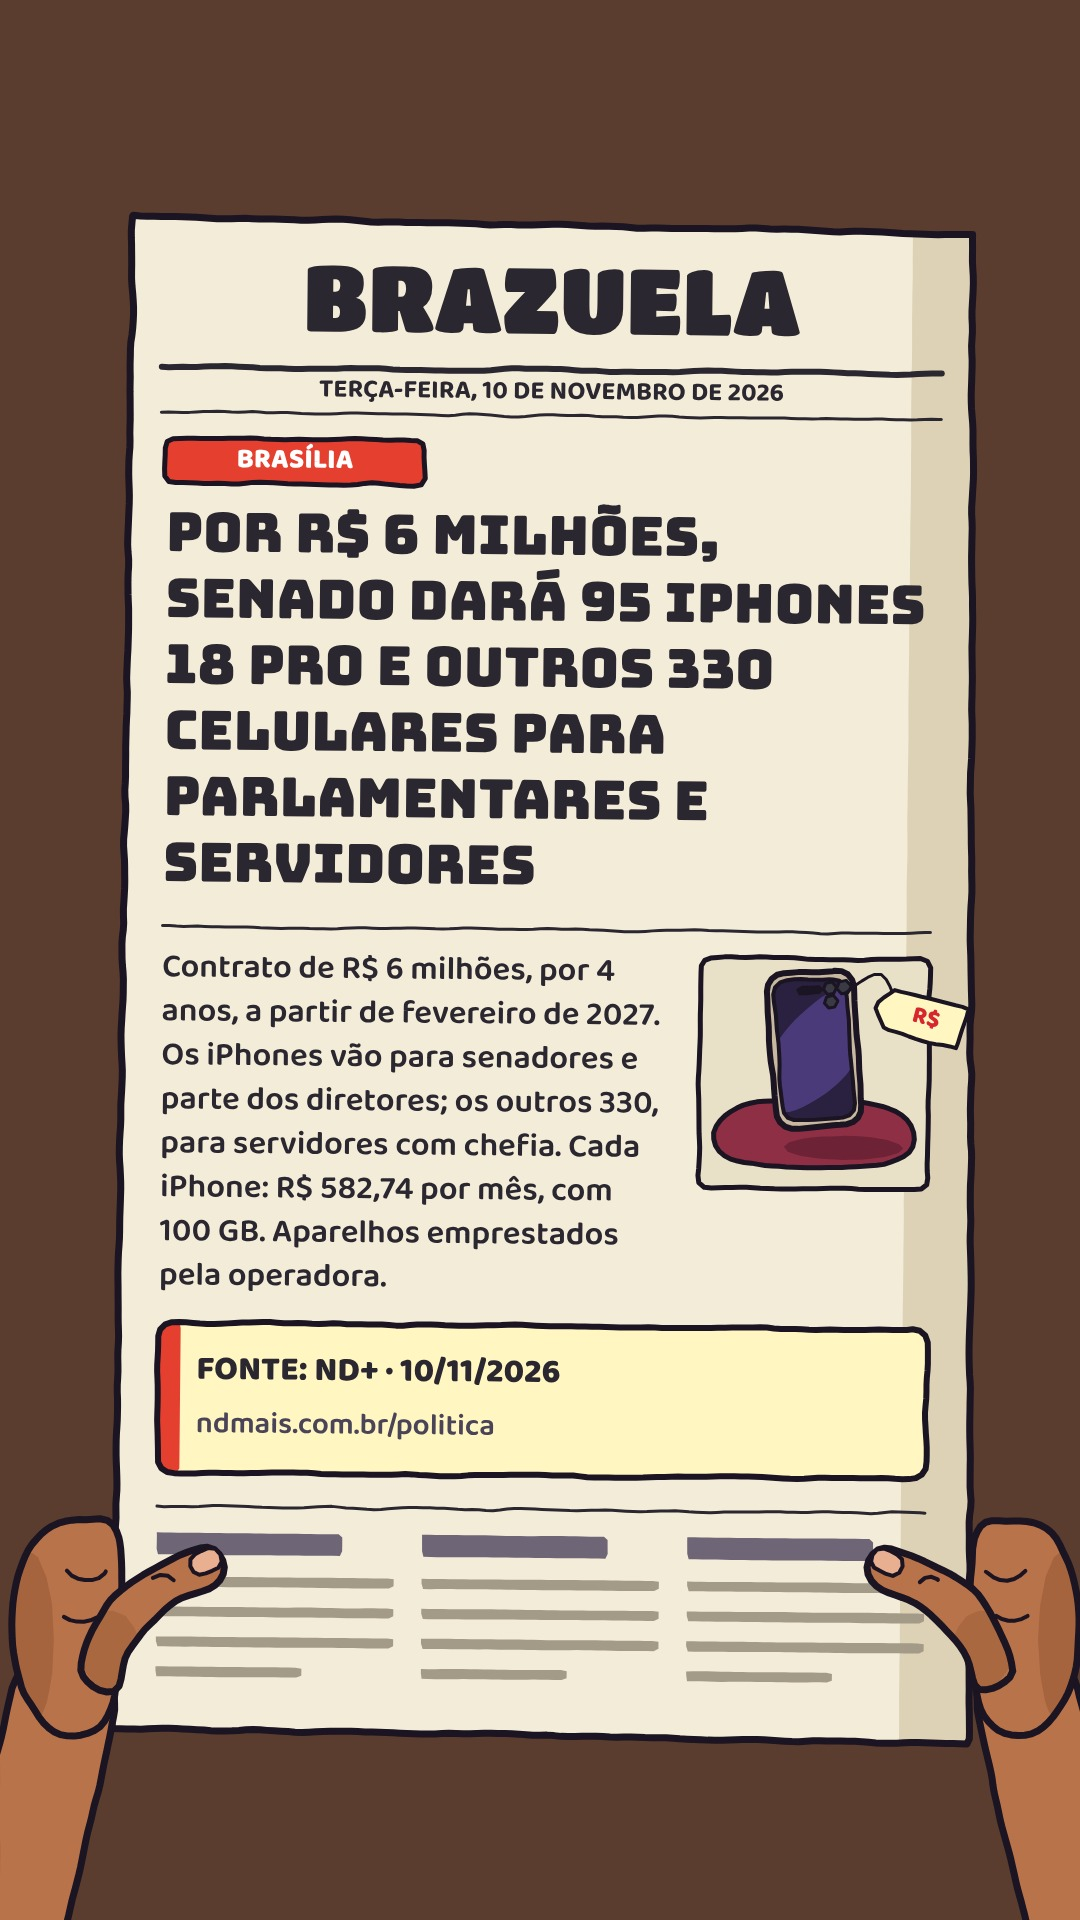
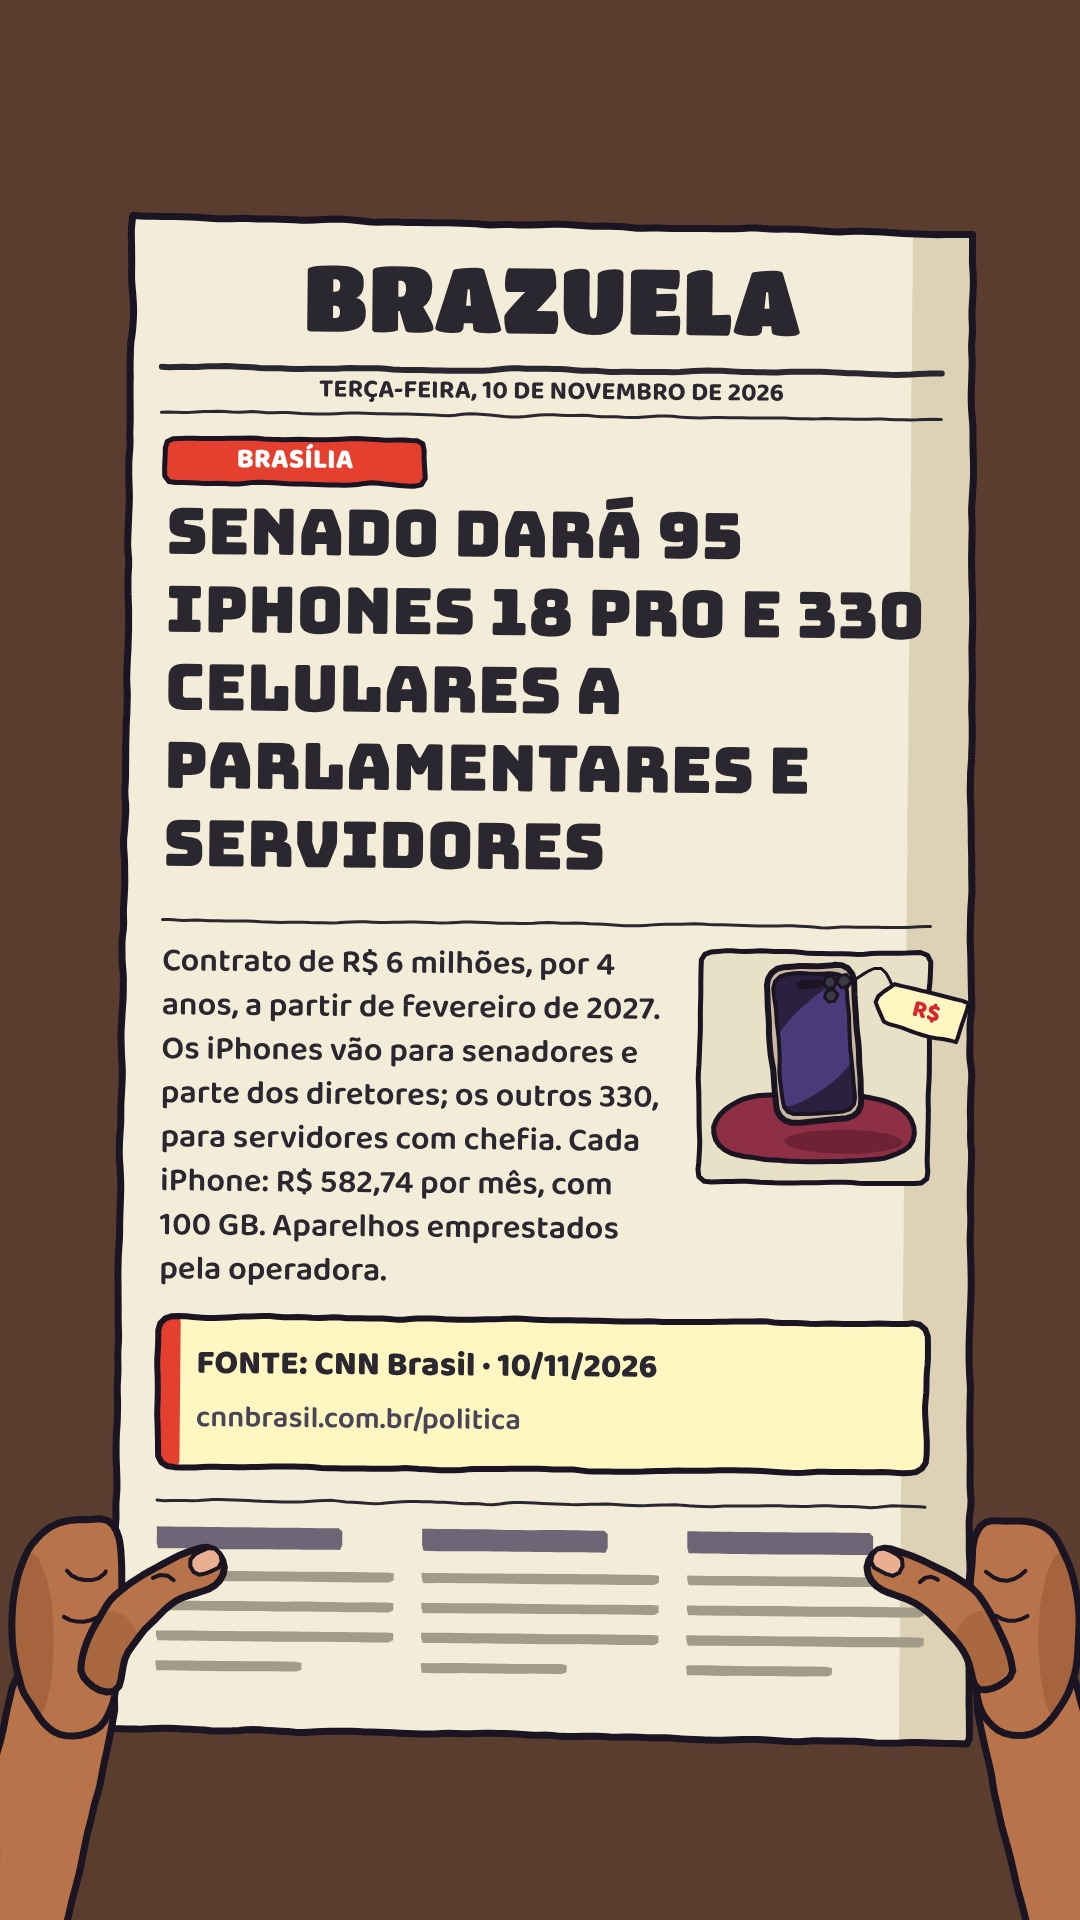
Episode 2: use the CNN Brasil story the author sent (headline, source seal, line 2)
Claude-Session: https://claude.ai/code/session_01Vj4AmPRRavHM7V3cnXnHDv

Changed region(s): [[0.1222, 0.25, 0.8861, 0.875]]

diff --git a/jornal/ep02-iphones/news.js b/jornal/ep02-iphones/news.js
@@ -2,9 +2,8 @@
 import { iphoneAlmofada } from '../cast.js';
 export const NEWS = {
   masthead: 'BRAZUELA', date: 'TERÇA-FEIRA, 10 DE NOVEMBRO DE 2026', kicker: 'BRASÍLIA',
-  headline: 'POR R$ 6 MILHÕES, SENADO DARÁ 95 IPHONES 18 PRO E OUTROS 330 CELULARES PARA PARLAMENTARES E SERVIDORES',
-  hlSize: 54,
+  headline: 'SENADO DARÁ 95 IPHONES 18 PRO E 330 CELULARES A PARLAMENTARES E SERVIDORES',
   resumo: 'Contrato de R$ 6 milhões, por 4 anos, a partir de fevereiro de 2027. Os iPhones vão para senadores e parte dos diretores; os outros 330, para servidores com chefia. Cada iPhone: R$ 582,74 por mês, com 100 GB. Aparelhos emprestados pela operadora.',
-  fonte: ['FONTE: ND+ · 10/11/2026', 'ndmais.com.br/politica'],
+  fonte: ['FONTE: CNN Brasil · 10/11/2026', 'cnnbrasil.com.br/politica'],
   clip: iphoneAlmofada,
 };

diff --git a/SERIE-JORNAL.md b/SERIE-JORNAL.md
@@ -55,4 +55,4 @@ São três vozes: senhor, esposa e papagaio, com risadas e interrupções.
 
 ## Episódios
 - **Ep. 01 — "Visita boa toma café e vai embora"** (notícia: g1, 09/11/2026, queixa da esposa de FHC contra homem que fez vídeo no apartamento): `jornal/ep01-fhc/visita-boa.mp4`, 118 s, 9:16, −14 LUFS. Roteiro em `jornal/ep01-fhc/ROTEIRO.md`; reconstruir com `sh jornal/ep01-fhc/build.sh`.
-- **Ep. 02 — "Dura mais que mandato"** (notícia: ND+, 10/11/2026, Senado dará 95 iPhones 18 Pro e outros 330 celulares a parlamentares e servidores): roteiro e prévias em `jornal/ep02-iphones/` (`ROTEIRO.md`, `previa-*.jpg`). **Aguardando as falas** (MP3s 01–16; a 17 já está lá).
+- **Ep. 02 — "Dura mais que mandato"** (notícia: CNN Brasil, 10/11/2026, Senado dará 95 iPhones 18 Pro e 330 celulares a parlamentares e servidores): roteiro e prévias em `jornal/ep02-iphones/` (`ROTEIRO.md`, `previa-*.jpg`). **Aguardando as falas** (MP3s 01–16; a 17 já está lá).
